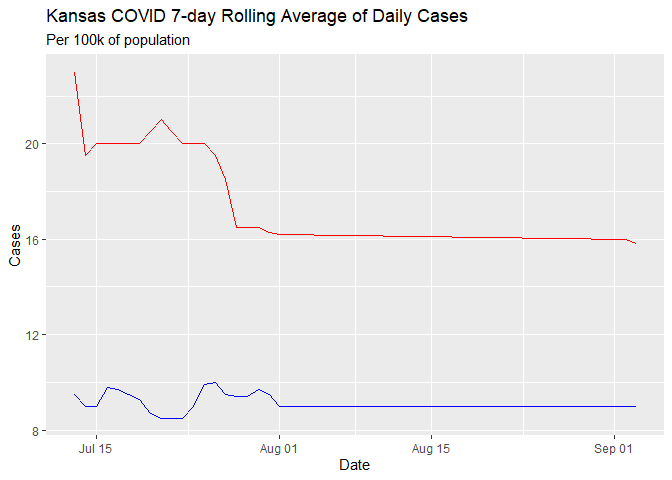
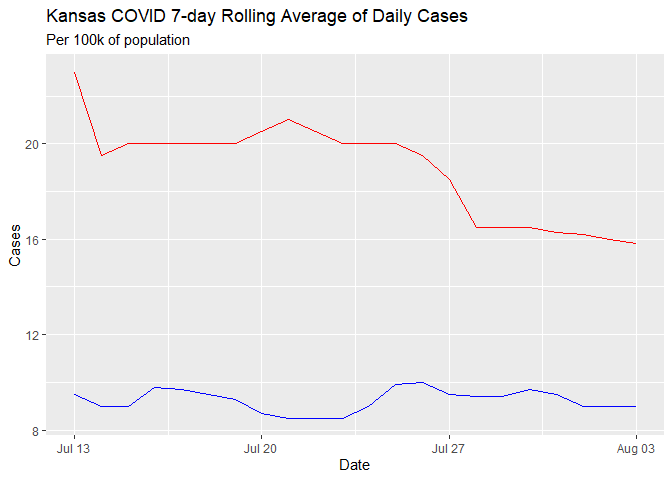
Corrected Dates

diff --git a/lab-06.md b/lab-06.md
@@ -34,8 +34,8 @@ Covid_cases <- tribble(
   "30/7/2020", 16.5, 9.7,
   "31/7/2020", 16.3, 9.5,
   "01/8/2020", 16.2, 9,
-  "02/9/2020", 16, 9,
-  "03/9/2020", 15.8, 9,
+  "02/8/2020", 16, 9,
+  "03/8/2020", 15.8, 9,
 )
 ```
 
